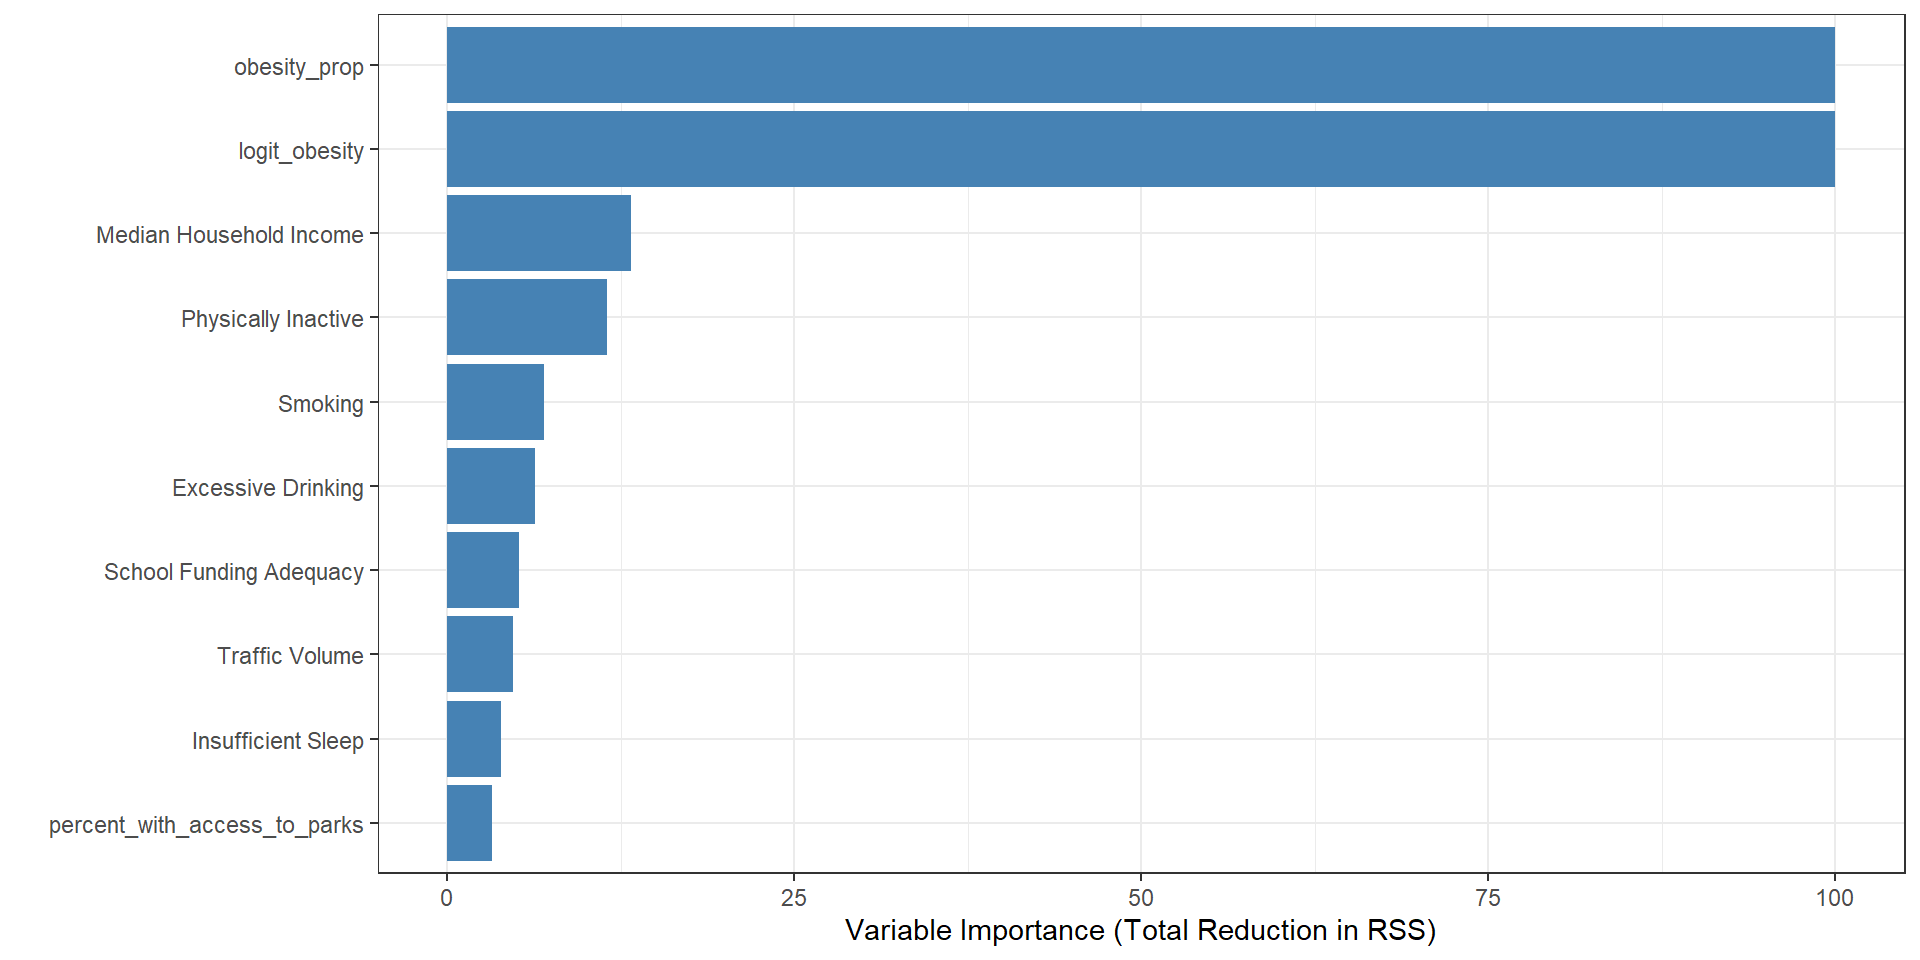
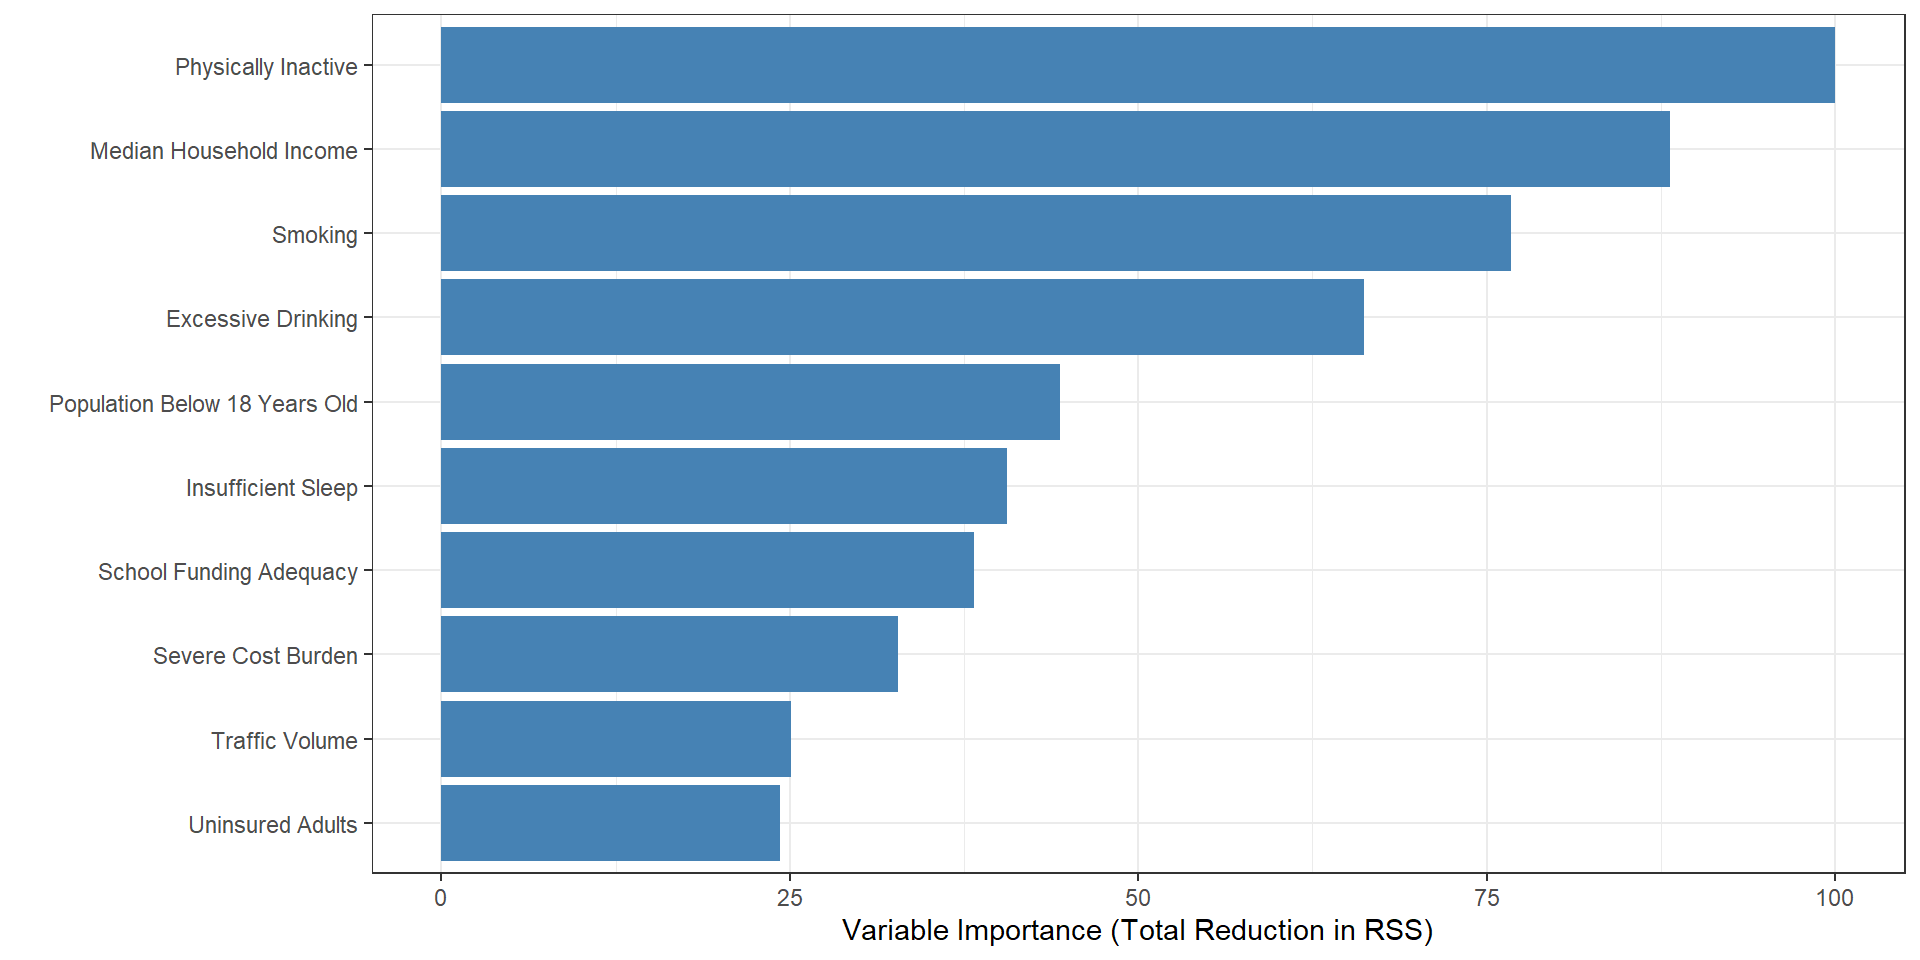
done

diff --git a/Faustin/final_edit.html b/Faustin/final_edit.html
@@ -168,7 +168,7 @@
 <li><strong>Data Overview</strong></li>
 <li><strong>Initial Analysis</strong></li>
 <li><strong>Understanding Direction</strong></li>
-<li><strong>Modeling and Comparision</strong></li>
+<li><strong>Modeling and Comparison</strong></li>
 <li><strong>Discussion</strong></li>
 <li><strong>Recommendations</strong></li>
 <li><strong>Appendix</strong></li>
@@ -209,6 +209,10 @@
 <!-- -   **We understand that there are correlations between obesity rates, physical inactivity, and healthy food environments. Now we to confirm whether we're looking at the "Fuel" or the "Fire" of the situation** -->
 <!-- -   **Importance behind this process is that it assists us with targeting the root cause** -->
 </section>
+<section id="surprisingly-the-food-environment-index-does-not-rank-among-the-top-predictors-of-county-level-obesity-rates." class="slide level2">
+<h2>Surprisingly, the Food Environment Index does not rank among the top predictors of county-level obesity rates.</h2>
+
+<img data-src="final_edit_files/figure-revealjs/vip-1.png" class="quarto-figure quarto-figure-center r-stretch" width="960"></section>
 <section id="modeling-and-comparison" class="slide level2">
 <h2>Modeling and Comparison</h2>
 <div class="cell" data-layout-align="center">
@@ -234,27 +238,23 @@
 <tbody>
 <tr class="odd">
 <td style="text-align: left;">Linear Model (OLS)</td>
-<td style="text-align: left;">0.0108 (0.0024)</td>
-<td style="text-align: left;">0.0313 (0.0006)</td>
-<td style="text-align: left;">0.5784</td>
-<td style="text-align: left;">0.1330</td>
+<td style="text-align: left;">0.0110 (0.0038)</td>
+<td style="text-align: left;">0.0309 (0.0008)</td>
+<td style="text-align: left;">0.5548</td>
+<td style="text-align: left;">0.1317</td>
 </tr>
 <tr class="even">
 <td style="text-align: left;">Huber Robust Model</td>
-<td style="text-align: left;">0.0129 (0.0023)</td>
-<td style="text-align: left;">0.0303 (0.0005)</td>
+<td style="text-align: left;">0.0147 (0.0036)</td>
+<td style="text-align: left;">0.0304 (0.0008)</td>
 <td style="text-align: left;">N/A</td>
-<td style="text-align: left;">0.1175</td>
+<td style="text-align: left;">0.1177</td>
 </tr>
 </tbody>
 </table>
 </div>
 </div>
 </section>
-<section id="surprisingly-the-food-environment-index-does-not-rank-among-the-top-predictors-of-county-level-obesity-rates." class="slide level2">
-<h2>Surprisingly, the Food Environment Index does not rank among the top predictors of county-level obesity rates.</h2>
-
-<img data-src="final_edit_files/figure-revealjs/vip-1.png" class="quarto-figure quarto-figure-center r-stretch" width="960"></section>
 <section id="food-environment-index-appears-to-be-a-confounding-variable" class="slide level2">
 <h2>Food Environment Index appears to be a confounding variable</h2>
 
@@ -272,12 +272,12 @@
 <h2>Recommendations</h2>
 <h4 id="prioritize-physical-activity-infrastructure">Prioritize Physical Activity Infrastructure</h4>
 <ul>
-<li>Build Walkable Communities by expanding sidewalks, bike lanes, and trails in high-obesity counties</li>
-<li>Target Schools with funding Safe Routes to School programs to improve sidewalks, crosswalks, and safety patrols.</li>
+<li>Building walkable Communities (expanding sidewalks, bike lanes, and trails in high-obesity counties)</li>
+<li>Funding Safe Routes to School programs to improve sidewalks, crosswalks, and safety patrols.</li>
 </ul>
 <h4 id="improve-food-access-with-targeted-interventions">Improve Food Access with Targeted Interventions</h4>
 <ul>
-<li>Deploying Mobile Food Solutions by launching produce vans (e.g., Veggie Van in NC) in food deserts. and hosting pop-up markets at schools, clinics, or transit hubs paired with nutrition workshops.</li>
+<li>Deploying Mobile Food Solutions such as produce vans (e.g., Veggie Van in NC) in food deserts. and hosting pop-up markets paired with nutrition workshops.</li>
 </ul>
 <h4 id="redirecting-funding">Redirecting Funding</h4>
 <ul>
@@ -287,9 +287,9 @@
 <section id="possible-future-work" class="slide level2">
 <h2>Possible Future Work</h2>
 <ul>
-<li><p>Verifying the count of parks and wellness centers per county</p></li>
-<li><p>Map their respective distance and location</p></li>
-<li><p>Check for trends on when individuals are going to the fitness locations</p></li>
+<li><p>Establishing a count of parks and wellness centers per county</p></li>
+<li><p>Mapping their respective distance and location</p></li>
+<li><p>Checking for trends on when individuals are going to the fitness locations</p></li>
 </ul>
 </section>
 <section id="thank-you" class="slide level2 center">
